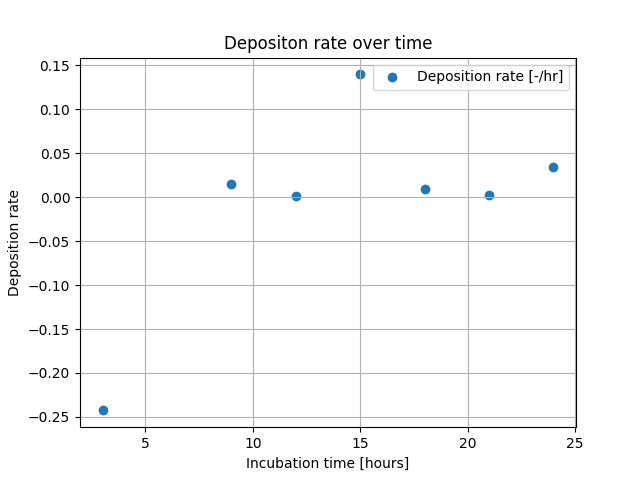
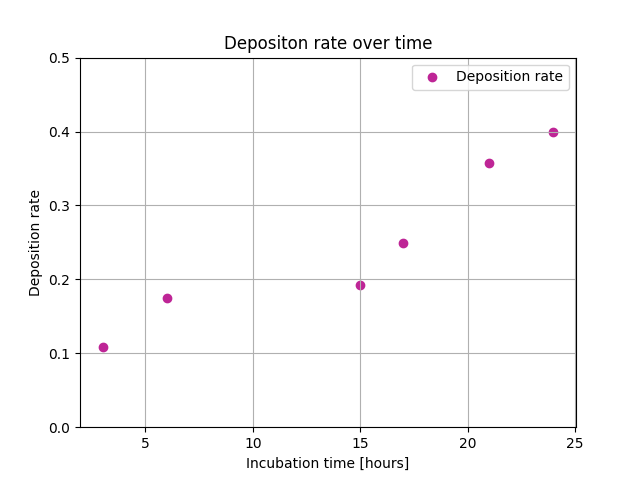
deposition rate updated

diff --git a/Deposition.py b/Deposition.py
@@ -1,13 +1,14 @@
 import matplotlib.pyplot as plt
 import pandas as pd
 
-df = pd.read_csv('Data/incubation time-fabric weight salt weight.csv')
+df = pd.read_csv('Data/UPDATED_incubation_time.csv')
 
 
 pre_biomineralization_weight = df['Pre biomineralization weight (g)'].tolist()
 biomineralized_weight = df['Biomineralized weight (g)'].tolist()
 
-time=[3,9,12,15,18,21,24] #hours as a incubation time
+
+time=[3,6,15,17,21,24] #hours as a incubation time
 
 plt.figure()
 plt.scatter(time, pre_biomineralization_weight, marker='o', label='Pre-biomineralization weight')
@@ -99,15 +100,17 @@ print(total_mass)
 deposition_rate = []  
 
 for i in range(len(time)):
-    deposition_rate.append((biomineralized_weight[i] - pre_biomineralization_weight[i]) / (total_mass * time[i]))
+    deposition_rate.append((biomineralized_weight[i] - pre_biomineralization_weight[i]) / (total_mass))
+
 
 plt.figure()
-plt.scatter(time, deposition_rate, label='Deposition rate [-/hr]')
+plt.scatter(time, deposition_rate, label='Deposition rate', color='#be2596')
+plt.ylim(0, 0.5)
 plt.xlabel('Incubation time [hours]')
 plt.ylabel('Deposition rate')
 plt.title('Depositon rate over time')
-plt.legend()
 plt.grid(True)
+plt.legend()
 plt.savefig('deposition_rate.png')
 
 
